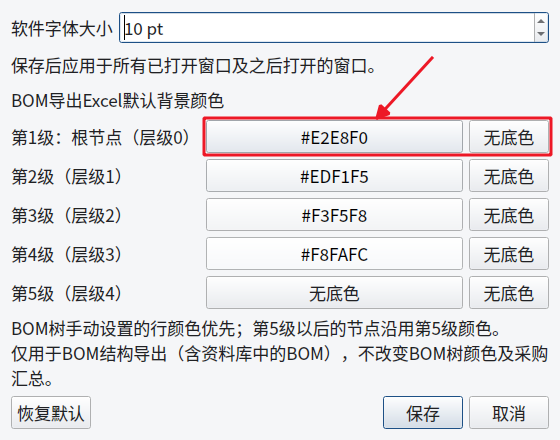
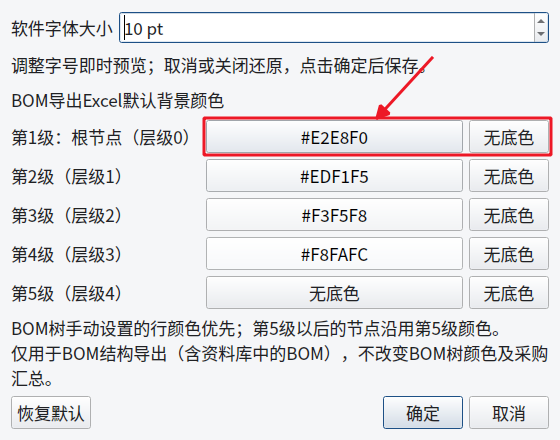
feat(settings): 字号实时预览并在取消时恢复原字号
- 调整字号立即更新当前及新开窗口，仅确定或Ctrl+S后持久化配置
- 取消、Esc、关闭设置与主窗口成功退出恢复本次打开前字号，保存失败仍允许回退
- 重开设置重新读取已保存配置并刷新预览基线，重复激活不丢草稿；恢复默认支持即时预览
- 确认按钮更名确定，复用全局快捷键标识避免Ctrl+S冲突
- 新增回归、包内实时预览/取消自检及原生窗口验证，更新帮助说明和4张设置截图

验证：设置专项6项与本机原生交互通过；完整回归与打包报告test_reports/finish_settings_preview.log。

Changed region(s): [[0.0, 0.1182, 0.7589, 0.1773], [0.7286, 0.9159, 0.7893, 0.975]]

diff --git a/src/ui/settings_dialog.py b/src/ui/settings_dialog.py
@@ -1,8 +1,8 @@
 """Nonmodal application appearance and BOM workbook defaults."""
-from PyQt5.QtCore import Qt
+from PyQt5.QtCore import Qt,QSignalBlocker
 from PyQt5.QtGui import QColor,QKeySequence
 from PyQt5.QtWidgets import (QVBoxLayout,QFormLayout,QLabel,QSpinBox,QPushButton,
-    QDialogButtonBox,QHBoxLayout,QWidget,QShortcut)
+    QDialogButtonBox,QHBoxLayout,QWidget,QShortcut,QApplication)
 from ui.interactive_windows import QDialog,QColorDialog,QMessageBox
 from config.appearance import load,save,DEFAULT_FONT_SIZE,DEFAULT_EXPORT_COLORS
 from services.bom_colors import foreground
@@ -13,9 +13,10 @@ class SettingsDialog(QDialog):
         super().__init__(parent);self.config=config;self.setWindowTitle('设置');self.resize(560,440)
         layout=QVBoxLayout(self);form=QFormLayout();layout.addLayout(form)
         size,self.colors=load(config)
+        self._original_font_size=QApplication.instance().font().pointSizeF();self._preview_active=True
         self.font_size=QSpinBox();self.font_size.setRange(8,24);self.font_size.setSuffix(' pt');self.font_size.setValue(size)
         form.addRow('软件字体大小',self.font_size)
-        hint=QLabel('保存后应用于所有已打开窗口及之后打开的窗口。');hint.setWordWrap(True);layout.addWidget(hint)
+        hint=QLabel('调整字号即时预览；取消或关闭还原，点击确定后保存。');hint.setWordWrap(True);layout.addWidget(hint)
         title=QLabel('BOM导出Excel默认背景颜色');layout.addWidget(title)
         colors_form=QFormLayout();layout.addLayout(colors_form);self.color_buttons=[]
         for level in range(5):
@@ -26,11 +27,29 @@ class SettingsDialog(QDialog):
         note=QLabel('BOM树手动设置的行颜色优先；第5级以后的节点沿用第5级颜色。\n仅用于BOM结构导出（含资料库中的BOM），不改变BOM树颜色及采购汇总。')
         note.setWordWrap(True);layout.addWidget(note)
         self.buttons=QDialogButtonBox(QDialogButtonBox.Save|QDialogButtonBox.Cancel|QDialogButtonBox.RestoreDefaults)
-        for role,text in ((QDialogButtonBox.Save,'保存'),(QDialogButtonBox.Cancel,'取消'),(QDialogButtonBox.RestoreDefaults,'恢复默认')):self.buttons.button(role).setText(text)
+        for role,text in ((QDialogButtonBox.Save,'确定'),(QDialogButtonBox.Cancel,'取消'),(QDialogButtonBox.RestoreDefaults,'恢复默认')):self.buttons.button(role).setText(text)
         self.buttons.accepted.connect(self.accept);self.buttons.rejected.connect(self.reject)
         self.buttons.button(QDialogButtonBox.RestoreDefaults).clicked.connect(self.defaults);layout.addWidget(self.buttons)
-        shortcut=QShortcut(QKeySequence.Save,self);shortcut.setContext(Qt.WindowShortcut);shortcut.activated.connect(self.accept)
+        self._bom_save_shortcut=QShortcut(QKeySequence.Save,self)
+        self._bom_save_shortcut.setContext(Qt.WindowShortcut);self._bom_save_shortcut.activated.connect(self.accept)
         self.refresh_colors()
+        self.font_size.valueChanged.connect(self.preview_font)
+    def begin_session(self):
+        self._original_font_size=QApplication.instance().font().pointSizeF()
+        size,self.colors=load(self.config)
+        with QSignalBlocker(self.font_size):self.font_size.setValue(size)
+        self.refresh_colors();self._preview_active=True
+    def showEvent(self,event):
+        if not self._preview_active:self.begin_session()
+        super().showEvent(event)
+    def preview_font(self,size):
+        from ui.theme import apply_font_size
+        if self._preview_active:apply_font_size(size)
+    def reject(self):
+        from ui.theme import apply_font_size
+        if self._preview_active:
+            self._preview_active=False;apply_font_size(self._original_font_size)
+        super().reject()
     def refresh_colors(self):
         for button,color in zip(self.color_buttons,self.colors):
             button.setText(color.upper() if color else '无底色')
@@ -45,4 +64,4 @@ class SettingsDialog(QDialog):
         try:save(self.config,self.font_size.value(),self.colors)
         except (OSError,ValueError) as error:QMessageBox.warning(self,'保存设置失败',str(error));return
         from ui.theme import apply_font_size
-        apply_font_size(self.font_size.value());super().accept()
+        apply_font_size(self.font_size.value());self._preview_active=False;super().accept()

diff --git a/tests/test_settings.py b/tests/test_settings.py
@@ -1,5 +1,6 @@
 import os,sys,tempfile,unittest
 from pathlib import Path
+from unittest.mock import patch
 os.environ['QT_QPA_PLATFORM']='offscreen'
 sys.path.insert(0,str(Path(__file__).parents[1]/'src'))
 from PyQt5.QtWidgets import QApplication,QLineEdit
@@ -31,6 +32,54 @@ class SettingsTests(unittest.TestCase):
   cfg=self.config.load();cfg['ui']['font_size']='invalid';cfg['ui']['bom_export_level_colors']='["wrong"]';self.config.save(cfg)
   self.assertEqual(load(self.config),(10,DEFAULT_EXPORT_COLORS))
   with self.assertRaises(ValueError):save(self.config,30,DEFAULT_EXPORT_COLORS)
+ def test_font_live_preview_cancel_close_escape_and_reopen(self):
+  from PyQt5.QtTest import QTest
+  apply_font_size(11);save(self.config,11,DEFAULT_EXPORT_COLORS)
+  original=self.config.path.read_bytes()
+  existing=QLineEdit();dialog=SettingsDialog(self.config)
+  try:
+   for cancel in ('cancel','close','escape'):
+    dialog.show();dialog.activateWindow();self.app.processEvents()
+    self.assertEqual(dialog.font_size.value(),11)
+    dialog.font_size.setValue(17);self.app.processEvents()
+    created=QLineEdit()
+    self.assertEqual(existing.font().pointSize(),17);self.assertEqual(created.font().pointSize(),17)
+    self.assertEqual(self.config.path.read_bytes(),original)
+    if cancel=='cancel':dialog.reject()
+    elif cancel=='close':dialog.close()
+    else:QTest.keyClick(dialog,Qt.Key_Escape)
+    self.assertEqual(self.app.font().pointSize(),11)
+    self.assertEqual(existing.font().pointSize(),11);self.assertEqual(created.font().pointSize(),11)
+    self.assertEqual(self.config.path.read_bytes(),original);created.close()
+   dialog.show();dialog.font_size.setValue(16);dialog.accept()
+   self.assertEqual(load(self.config)[0],16)
+   dialog.show();dialog.font_size.setValue(20);dialog.reject()
+   self.assertEqual(self.app.font().pointSize(),16)
+  finally:dialog.close();existing.close()
+ def test_preview_defaults_and_failed_save_can_cancel(self):
+  apply_font_size(13);save(self.config,13,DEFAULT_EXPORT_COLORS)
+  original=self.config.path.read_bytes();dialog=SettingsDialog(self.config);dialog.show()
+  try:
+   dialog.defaults();self.assertEqual(self.app.font().pointSize(),10)
+   self.assertEqual(self.config.path.read_bytes(),original)
+   with patch('ui.settings_dialog.save',side_effect=OSError('write failed')),patch('ui.settings_dialog.QMessageBox.warning') as warning:
+    dialog.accept();warning.assert_called_once()
+   self.assertTrue(dialog.isVisible());dialog.reject()
+   self.assertEqual(self.app.font().pointSize(),13);self.assertEqual(self.config.path.read_bytes(),original)
+  finally:dialog.close()
+ def test_ctrl_s_confirms_once_with_global_shortcut_handler(self):
+  from ui.save_shortcut import install_save_shortcuts
+  from PyQt5.QtTest import QTest
+  manager=install_save_shortcuts(self.app)
+  dialog=SettingsDialog(self.config);dialog.show();dialog.activateWindow();self.app.processEvents()
+  try:
+   dialog.font_size.setValue(15)
+   with patch('ui.settings_dialog.save',wraps=save) as write:
+    QTest.keyClick(dialog,Qt.Key_S,Qt.ControlModifier);self.app.processEvents();write.assert_called_once()
+   self.assertFalse(dialog.isVisible());self.assertEqual(load(self.config)[0],15)
+  finally:
+   dialog.close();manager.shutdown()
+   if hasattr(self.app,'_bom_save_shortcuts'):del self.app._bom_save_shortcuts
  def test_export_levels_custom_override_and_no_database_changes(self):
   db=Database(str(Path(self.tmp.name)/'db'));s=Services(db,self.config)
   try:

diff --git a/src/ui/main_window.py b/src/ui/main_window.py
@@ -444,6 +444,7 @@ class MainWindow(ProjectManagement,QMainWindow):
   if self._materials is not None and not self._materials.close():event.ignore();return
   if getattr(self,'_create_material_dialog',None):self._create_material_dialog.reject()
   if getattr(self,'_compare_dialog',None):self._compare_dialog.close()
+  if getattr(self,'_settings_dialog',None):self._settings_dialog.reject()
   self._live_project.close();WindowRefreshBus.unsubscribe(self.on_data_change); super().closeEvent(event)
  def build(self):
   bar=self.menuBar(); fm=bar.addMenu('文件'); a=fm.addAction('选择SQLite数据库'); a.triggered.connect(self.select_database); a=fm.addAction('导出资料库'); a.triggered.connect(self.export_database); pm=bar.addMenu('项目'); self.setup_projects(fm,pm); a=pm.addAction('修改项目信息'); a.triggered.connect(self.edit_project); a=bar.addAction('物料库'); a.triggered.connect(self.show_materials); self.sku_menu=bar.addMenu('SKU'); a=self.sku_menu.addAction('新建SKU'); a.setShortcut('Ctrl+N');a.setShortcutContext(Qt.WindowShortcut); a.triggered.connect(self.new_sku);
@@ -490,9 +491,7 @@ class MainWindow(ProjectManagement,QMainWindow):
   if not getattr(self,'_settings_dialog',None):
    self._settings_dialog=SettingsDialog(self.svc.config_service or ConfigService(),self)
   elif not self._settings_dialog.isVisible():
-   from config.appearance import load
-   size,colors=load(self._settings_dialog.config)
-   self._settings_dialog.font_size.setValue(size);self._settings_dialog.colors=colors;self._settings_dialog.refresh_colors()
+   self._settings_dialog.begin_session()
   self._settings_dialog.show();self._settings_dialog.raise_();self._settings_dialog.activateWindow()
  def show_about(self):
   AboutDialog(self.version,self).exec_()

diff --git a/tools/check_appearance.py b/tools/check_appearance.py
@@ -24,7 +24,13 @@ with tempfile.TemporaryDirectory() as temp:
  try:
   assert QTest.qWaitForWindowExposed(dialog)
   assert dialog.windowModality()==Qt.NonModal
-  dialog.font_size.setValue(14);dialog.set_color(0,'#1b365d')
+  baseline=app.font().pointSizeF();original=svc.config_service.path.read_bytes()
+  dialog.font_size.setValue(16);app.processEvents()
+  assert bom.tree.font().pointSize()==16
+  assert svc.config_service.path.read_bytes()==original
+  QTest.mouseClick(dialog.buttons.button(QDialogButtonBox.Cancel),Qt.LeftButton)
+  assert app.font().pointSizeF()==baseline
+  main.show_settings();dialog.font_size.setValue(14);dialog.set_color(0,'#1b365d')
   before=list(db.conn.iterdump())
   QTest.mouseClick(dialog.buttons.button(QDialogButtonBox.Save),Qt.LeftButton)
   app.processEvents();assert not dialog.isVisible();assert load(svc.config_service)[0]==14
@@ -36,7 +42,7 @@ with tempfile.TemporaryDirectory() as temp:
     window.show();window.raise_();QTest.qWait(80);assert window.grab().save(str(out/(name+('_dark' if dark else '_light')+'.png')))
    dialog.reject()
   main.set_theme(False)
-  (out/'summary.json').write_text(json.dumps(dict(passed=True,checks=['nonmodal','actual_save','font_applied','config_persisted','database_unchanged','light_dark_windows'],screenshots=8),indent=2))
+  (out/'summary.json').write_text(json.dumps(dict(passed=True,checks=['nonmodal','live_font_preview','cancel_restores_font','preview_does_not_write_config','actual_save','font_applied','config_persisted','database_unchanged','light_dark_windows'],screenshots=8),indent=2))
  finally:
   dialog.close();bom.dirty=False;bom.close();main.close();db.close()
 print('APPEARANCE_NATIVE_OK')

diff --git a/src/infrastructure/smoke_test.py b/src/infrastructure/smoke_test.py
@@ -209,6 +209,11 @@ def run_smoke_test(report_path):
             from openpyxl import Workbook
             cfg=ConfigService(tmp);settings=SettingsDialog(cfg,windows[1]);windows.append(settings)
             old_size=app.font().pointSizeF();settings.show();app.processEvents()
+            before_config=cfg.path.read_bytes();settings.font_size.setValue(16)
+            assert app.font().pointSize()==16 and cfg.path.read_bytes()==before_config
+            settings.reject();assert app.font().pointSizeF()==old_size
+            settings.show()
+            ui_checks.append('settings_font_live_preview_cancel')
             settings.font_size.setValue(12);settings.set_color(0,'#123456');settings.accept()
             assert load_appearance(cfg)[0]==12 and app.font().pointSize()==12
             svc.config_service=cfg;book=Workbook();svc.write_bom_sheet(book.active,root)

diff --git a/docs/CODEX_MEMORY.md b/docs/CODEX_MEMORY.md
@@ -1463,3 +1463,10 @@ WSLg原生保存差异专项10项亦通过，报告test_reports/pending_history_
 - 深色主题提高文字/禁用文字、表格网格、表头、输入框、分组/菜单/分隔线对比；悬停/焦点保持清晰，数量框与下拉箭头使用临时生成的高对比图标。历史差异及BOM新增/删除/修改分别使用亮绿/浅红/金黄；切回浅色恢复原配色。主题切换只对缓存着色，不读取数据库，关闭窗口也不会因颜色更新访问已关闭连接。
 - 字号即时同步保留字体粗体/删除线及BOM编辑草稿，移除帮助浏览器固定像素字号。新增设置4步红框箭头实际窗口截图，更新实际数据库只读副本生成的静态帮助共171张；运行软件不现场生成截图。
 - 回归覆盖配置持久化/非法回退/取消/恢复默认、七层导出与手动覆盖/黑白字、无填充、数据不变、非模态、菜单位置、已有/新窗口字号、主题切换与未保存草稿。tools/check_appearance.py用临时数据库实际点击保存并截图明暗主题下设置/SKU/物料库/BOM共8张，报告test_reports/appearance_native。最终全量、审计、发布冒烟与版本提交打包以test_reports/finish_settings.log及包内报告为准。原始业务库不写入，不推送。
+
+
+## 2026-11-02：设置字号实时预览、取消回退与确定保存
+
+字号valueChanged立即更新应用及所有窗口；每次打开设置记录实际应用字号为回退基线，不以INI默认值替代当前显示状态。取消、Esc、关闭设置、主窗口成功退出均回退基线，配置不写入；确定/Ctrl+S写入成功后保留当前字号。恢复默认即时预览，仍需确认持久化；保存失败保持预览与窗口，可继续修改或取消。隐藏后重开重新读取配置，初始化阻断valueChanged，重复激活可见窗口不重置草稿。确认按钮文案改为“确定”。
+
+复用全局Ctrl+S标识避免设置窗口同时注册两个相同快捷键。专项新增3项覆盖已有/新窗口预览、取消/Esc/X回退、再次打开及确认后的新基线、原始INI字节不变、默认预览、写入失败和真实Ctrl+S确认一次。既有设置专项累计6项；发布冒烟增加预览取消检查，本机原生窗口工具验证实际取消后恢复与确定保存。仅更新设置相关4张帮助截图，其余静态图片复用。最终全量/提交/打包以test_reports/finish_settings_preview.log为准；原始业务数据库未修改。
